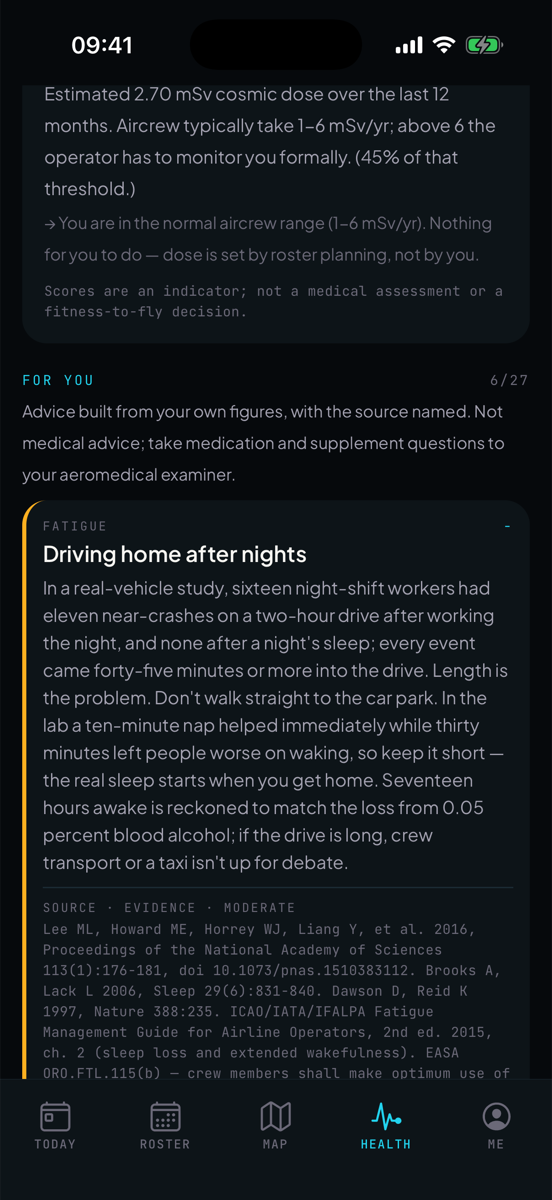
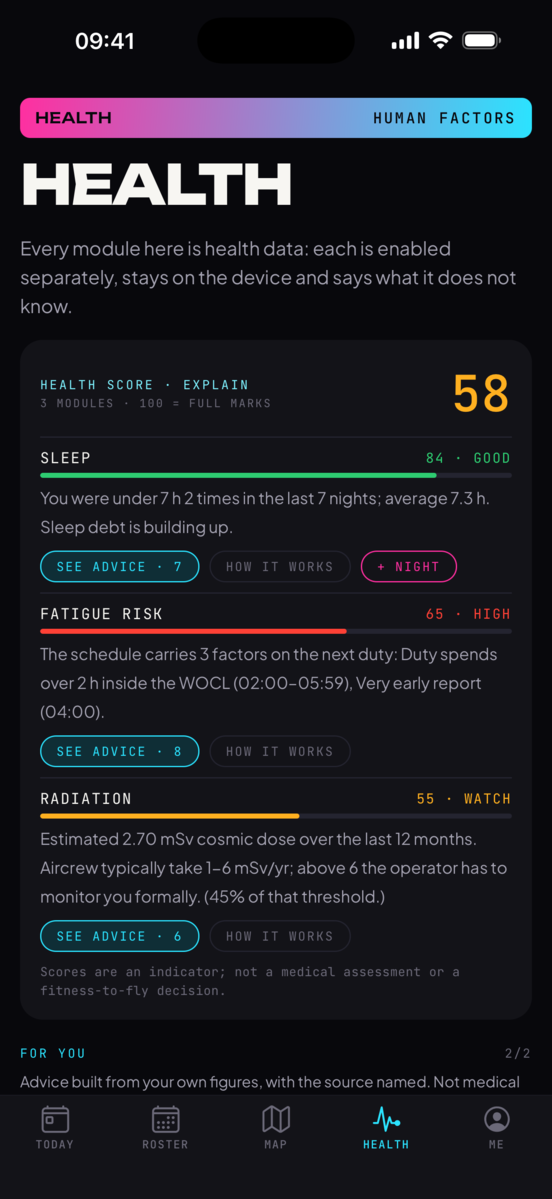
Crewops sayfasi: magaza baglantisi canli, yeni ikon ve ekranlar, 1.1 ozellikleri isaretli
- 'Coming soon' yerine App Store baglantisi (1.0 yayinda).
- Yeni Liquid Glass ikon ve dort ekran goruntusu yeniden cekildi.
- Portal kartinda 67 dogrulanmis adres ve NetLine degisiklik onayi;
  limit kartinda 900 saat ve standby'in uc turu; kocluk 76 kart
  (27/22/15/12).
- iCloud esitleme ve takvim/hatirlatici kartlari eklendi, ikisi de
  'IN 1.1' rozetiyle: magazadaki surum hala 1.0 ve iPhone-only.
- Destek sayfasi: standby, takvim ve hatirlaticilar, iCloud esitleme ve
  yeni cihaza gecis bolumleri.
- Fiyatlar: 6,99 $/ay, 49,99 $/yil, 7 gun deneme.

Changed region(s): [[0.0308, 0.3086, 0.9547, 0.9566], [0.0308, 0.0, 0.9855, 0.2777]]

diff --git a/crewops.html b/crewops.html
@@ -4,16 +4,16 @@
     <meta charset="utf-8" />
     <meta name="viewport" content="width=device-width, initial-scale=1" />
     <title>Crewops — Roster, duty limits &amp; fatigue for airline crew · Hawk &amp; Mason Studios</title>
-    <meta name="description" content="Crewops reads the roster your airline already sends you and shows what it leaves you: FDP ceilings, legal rest, a fatigue indicator, a logbook with CSV export and a document wallet. Everything stays on your phone." />
+    <meta name="description" content="Crewops reads the roster your airline already sends you and shows what it leaves you: FDP ceilings, legal rest, a fatigue indicator, a logbook with CSV export and a document wallet. Everything is computed on the device; iPad support and optional iCloud sync arrive in the 1.1 update." />
     <meta property="og:title" content="Crewops — Roster, duty limits &amp; fatigue for airline crew" />
-    <meta property="og:description" content="Import your roster, see the margin the month leaves you, and keep your own logbook. For line pilots and cabin crew. Nothing leaves the device." />
+    <meta property="og:description" content="Import your roster, see the margin the month leaves you, and keep your own logbook. For line pilots and cabin crew. Nothing reaches us." />
     <meta property="og:type" content="website" />
     <meta property="og:url" content="https://hawkmason.com/crewops.html" />
-    <meta property="og:image" content="assets/crewops/bugun.png" />
+    <meta property="og:image" content="assets/crewops/bugun.png?v=2" />
     <meta name="twitter:card" content="summary_large_image" />
-    <meta name="twitter:image" content="assets/crewops/bugun.png" />
-    <link rel="icon" href="assets/crewops/icon.png" type="image/png" sizes="64x64" />
-    <link rel="apple-touch-icon" href="assets/crewops/icon.png" />
+    <meta name="twitter:image" content="assets/crewops/bugun.png?v=2" />
+    <link rel="icon" href="assets/crewops/icon.png?v=2" type="image/png" sizes="64x64" />
+    <link rel="apple-touch-icon" href="assets/crewops/icon.png?v=2" />
     <link rel="stylesheet" href="styles.css?v=22" />
     <script src="app.js?v=22" defer></script>
   </head>
@@ -46,18 +46,22 @@
             line.
           </p>
           <div class="store-row" id="download">
-            <span class="store-pill store-pill--ios store-pill--soon">
-              <span class="store-kicker">Coming soon to the</span><span class="store-name">App Store</span>
-            </span>
+            <a class="store-pill store-pill--ios" href="https://apps.apple.com/app/id6811512361" target="_blank" rel="noopener">
+              <span class="store-kicker">Download on the</span><span class="store-name">App Store</span>
+            </a>
           </div>
+          <p class="g-hero-meta" style="color: var(--w-muted); margin-bottom: 4px;">
+            Version 1.1 — iPad layout, iCloud sync between your own devices, calendar
+            mirroring and report reminders — is with Apple for review.
+          </p>
           <p class="g-hero-meta" style="color: var(--w-muted);">
-            iOS · 7 languages · 7-day free trial on Pro ·
+            iPhone · 7 languages · free, with a 7-day trial on Pro ·
             <a href="mailto:hello@hawkmason.com" style="color: var(--w-azure);">hello@hawkmason.com</a>
           </p>
         </div>
         <div class="w-hero-art" aria-hidden="true">
-          <div class="w-phone w-phone-back"><img src="assets/crewops/ritim.png" alt="" /></div>
-          <div class="w-phone w-phone-front"><img src="assets/crewops/bugun.png" alt="" /></div>
+          <div class="w-phone w-phone-back"><img src="assets/crewops/ritim.png?v=2" alt="" /></div>
+          <div class="w-phone w-phone-front"><img src="assets/crewops/bugun.png?v=2" alt="" /></div>
         </div>
       </section>
 
@@ -71,12 +75,12 @@
           <article class="w-card">
             <span class="w-ic">📥</span>
             <h3>Three ways in</h3>
-            <p>Drop in the .ics file your airline publishes, add the roster PDF, or open your airline's crew portal. The PDF is read on the device, straight from its text layer, with OCR as the fallback. 273 operators are preconfigured — they set your portal family and rule set. On NetLine/CrewLink the app signs in and pulls the roster itself; on the other systems it opens your airline's own portal and catches the file you export.</p>
+            <p>Drop in the .ics file your airline publishes, add the roster PDF, or open your airline's crew portal. The PDF is read on the device, straight from its text layer, with OCR as the fallback. 273 operators are preconfigured with their crew system and rule set, and 67 portal addresses are verified. On NetLine/CrewLink the app signs in, pulls the roster itself, and lets you acknowledge a change notice without leaving the app; on the other systems it opens your airline's own portal and catches the file you export.</p>
           </article>
           <article class="w-card">
             <span class="w-ic">⏱</span>
             <h3>Limits that match your rule set</h3>
-            <p>EASA, UK CAA, FAA Part 117 and Turkish SHGM. FDP ceilings, minimum rest, cumulative duty, and the earliest they can call you again — with the margin the roster leaves, not just the numbers on it.</p>
+            <p>EASA, UK CAA, FAA Part 117 and Turkish SHGM. FDP ceilings, minimum rest, cumulative duty, the 900-hour year, and the earliest they can call you again — with the margin the roster leaves, not just the numbers on it. Standby is airport, home or reserve, and each counts the way the rules say.</p>
           </article>
           <article class="w-card">
             <span class="w-ic">🌙</span>
@@ -91,33 +95,43 @@
           <article class="w-card">
             <span class="w-ic">🩺</span>
             <h3>Coaching, with sources</h3>
-            <p>Sleep, body clock, light and caffeine windows, cosmic radiation against the Euratom reference levels. Seventy-eight cards that fire off your own numbers, each naming the study or regulation behind it.</p>
+            <p>Sleep, body clock, light and caffeine windows, cosmic radiation against the Euratom reference levels, month by month. Seventy-six cards that fire off your own numbers — 27 on fatigue, 22 on sleep, 15 on the body clock, 12 on radiation — each naming the study or regulation behind it.</p>
           </article>
           <article class="w-card">
             <span class="w-ic">🗂</span>
             <h3>Documents that warn you early</h3>
             <p>Licence, medical, passport and visa expiry dates, with reminders before they bite, and a note of which destinations need which visa.</p>
           </article>
+          <article class="w-card">
+            <span class="w-ic">☁</span>
+            <h3>Your devices, in step<span style="display:inline-block;margin-left:8px;padding:2px 8px;border:1px solid var(--w-line);border-radius:999px;font-size:0.68rem;letter-spacing:0.06em;color:var(--w-azure);vertical-align:middle;">IN 1.1</span></h3>
+            <p>Optional iCloud sync keeps your roster, logbook, documents and settings the same on every device you own, through your own iCloud account. Off by default, encrypted on the device with a key that never leaves your devices. Sleep, fatigue and IMSAFE entries never go to iCloud.</p>
+          </article>
+          <article class="w-card">
+            <span class="w-ic">📅</span>
+            <h3>In your calendar, on time<span style="display:inline-block;margin-left:8px;padding:2px 8px;border:1px solid var(--w-line);border-radius:999px;font-size:0.68rem;letter-spacing:0.06em;color:var(--w-azure);vertical-align:middle;">IN 1.1</span></h3>
+            <p>Mirror the roster into a calendar of your choosing on the device, and get a reminder before each report time. Both are local: no server, no push, nothing leaves the phone to make them work.</p>
+          </article>
         </div>
       </section>
 
       <!-- PRIVACY LINE -->
       <section class="w-quote">
-        <p>Your roster, your hours and your health are on your phone, not on our server. We do not have an account system, because we do not want your data.</p>
-        <span>Crewops computes everything on the device. The only things it fetches are public weather and space-weather feeds, and your own airline's portal when you ask it to.</span>
+        <p>Your roster, your hours and your health are on your device, not on our server. We do not have an account system, because we do not want your data.</p>
+        <span>Crewops computes everything on the device. The only things it fetches are public weather and space-weather feeds, and your own airline's portal when you ask it to. If you switch iCloud sync on, an encrypted copy goes to your own iCloud account and nowhere else.</span>
       </section>
 
       <!-- SPECS -->
       <section class="w-strip">
         <div class="w-strip-inner">
           <div style="text-align: center;">
-            <img src="assets/crewops/icon.png" alt="Crewops app icon" style="width: 116px; height: 116px; border-radius: 26px; box-shadow: 0 16px 36px rgba(63, 182, 245, 0.28); display: block; margin: 0 auto 10px;" />
+            <img src="assets/crewops/icon.png?v=2" alt="Crewops app icon" style="width: 116px; height: 116px; border-radius: 26px; box-shadow: 0 16px 36px rgba(63, 182, 245, 0.28); display: block; margin: 0 auto 10px;" />
             <span style="font-size: 0.85rem; color: var(--w-azure); font-weight: 700; letter-spacing: 0.05em;">CREWOPS</span>
           </div>
           <div>
             <h3 style="color: #fff; font-size: 1.06rem; margin-bottom: 12px;">App information</h3>
             <ul class="w-spec">
-              <li><b>Platform:</b> iOS (iPhone)</li>
+              <li><b>Platform:</b> iPhone · iPad in the 1.1 update</li>
               <li><b>Category:</b> Business · Health &amp; Fitness</li>
               <li><b>Age rating:</b> 12+</li>
               <li><b>Developer:</b> Hawk &amp; Mason Studios</li>
@@ -128,8 +142,8 @@
             <ul class="w-spec">
               <li><b>Requires:</b> iOS 16.4 or later</li>
               <li><b>Languages:</b> TR, EN, DE, ES, FR, IT, PT-BR</li>
-              <li><b>Privacy:</b> No account, no server, nothing uploaded</li>
-              <li><b>Pricing:</b> Free to use, Crewops Pro subscription optional</li>
+              <li><b>Privacy:</b> No account, no server; iCloud sync only if you turn it on</li>
+              <li><b>Pricing:</b> Free to use · Crewops Pro $6.99/month or $49.99/year (USD), 7-day free trial</li>
             </ul>
           </div>
         </div>
@@ -143,19 +157,19 @@
         </div>
         <div class="w-grid" style="grid-template-columns: repeat(auto-fit, minmax(220px, 1fr));">
           <figure style="margin: 0;">
-            <img src="assets/crewops/bugun.png" alt="The Today screen: next duty, report time, duty limits and the fatigue meter" style="width: 100%; border-radius: 22px; border: 1px solid var(--w-line);" />
+            <img src="assets/crewops/bugun.png?v=2" alt="The Today screen: next duty, report time, duty limits and the fatigue meter" style="width: 100%; border-radius: 22px; border: 1px solid var(--w-line);" />
             <figcaption style="color: var(--w-muted); font-size: 0.9rem; margin-top: 10px;">Today — the next duty, the margin, the fatigue meter.</figcaption>
           </figure>
           <figure style="margin: 0;">
-            <img src="assets/crewops/ritim.png" alt="The Rhythm screen: a month of duties as day lanes" style="width: 100%; border-radius: 22px; border: 1px solid var(--w-line);" />
+            <img src="assets/crewops/ritim.png?v=2" alt="The Rhythm screen: a month of duties as day lanes" style="width: 100%; border-radius: 22px; border: 1px solid var(--w-line);" />
             <figcaption style="color: var(--w-muted); font-size: 0.9rem; margin-top: 10px;">Rhythm — a month, day by day, rest and WOCL drawn in.</figcaption>
           </figure>
           <figure style="margin: 0;">
-            <img src="assets/crewops/saglik.png" alt="The Health screen: sleep, fatigue, radiation and body clock scores with coaching cards" style="width: 100%; border-radius: 22px; border: 1px solid var(--w-line);" />
-            <figcaption style="color: var(--w-muted); font-size: 0.9rem; margin-top: 10px;">Health — sourced coaching from your own numbers.</figcaption>
+            <img src="assets/crewops/saglik.png?v=2" alt="The Health screen: sleep, fatigue, radiation and body clock scores with coaching cards" style="width: 100%; border-radius: 22px; border: 1px solid var(--w-line);" />
+            <figcaption style="color: var(--w-muted); font-size: 0.9rem; margin-top: 10px;">Health — sleep, fatigue and dose scores, then sourced coaching from your own numbers.</figcaption>
           </figure>
           <figure style="margin: 0;">
-            <img src="assets/crewops/roster.png" alt="The Roster screen: imported duties with report, release, FDP and sectors" style="width: 100%; border-radius: 22px; border: 1px solid var(--w-line);" />
+            <img src="assets/crewops/roster.png?v=2" alt="The Roster screen: imported duties with report, release, FDP and sectors" style="width: 100%; border-radius: 22px; border: 1px solid var(--w-line);" />
             <figcaption style="color: var(--w-muted); font-size: 0.9rem; margin-top: 10px;">Roster — every duty as imported, nothing rewritten.</figcaption>
           </figure>
         </div>

diff --git a/crewops-support.html b/crewops-support.html
@@ -4,7 +4,7 @@
     <meta charset="utf-8" />
     <meta name="viewport" content="width=device-width, initial-scale=1" />
     <title>Crewops — Support · Hawk &amp; Mason Studios</title>
-    <meta name="description" content="Help with Crewops: roster import, duty limits, subscription and moving to a new phone." />
+    <meta name="description" content="Help with Crewops: roster import, duty limits, standby, calendar and reminders, iCloud sync, subscription and moving to a new device." />
     <meta name="robots" content="index,follow" />
     <link rel="icon" href="assets/favicon-64.png" type="image/png" sizes="64x64" />
     <link rel="icon" href="assets/favicon-32.png" type="image/png" sizes="32x32" />
@@ -45,7 +45,7 @@
       <h2>Help us help you faster</h2>
       <p>When you write about a problem, please include:</p>
       <ul>
-        <li>your device and iOS version (for example iPhone 15, iOS 18);</li>
+        <li>your device and iOS version (for example iPhone 15, iOS 18, or an iPad);</li>
         <li>the rule set you selected (EASA, UK CAA, FAA 117, SHGM);</li>
         <li>how the roster was imported — crew portal, .ics file or PDF;</li>
         <li>the duty in question, with its date and report time;</li>
@@ -54,7 +54,7 @@
       <p>
         No roster to hand? Open the
         <a href="crewops-sample-roster.ics">sample roster</a> and import it as a
-        calendar file — fourteen duties across seven weeks, a fortnight of flown sectors and five weeks ahead, enough to see every screen.
+        calendar file — fourteen duties across seven weeks, a dozen days of flown sectors and five weeks ahead, enough to see every screen.
       </p>
       <p>
         Please do not email us your crew portal password, and please remove or
@@ -64,7 +64,7 @@
       <h2>Importing a roster</h2>
       <p>There are three ways in, and they all end up in the same place:</p>
       <ul>
-        <li><strong>Crew portal</strong> — on NetLine/CrewLink the app signs in with the credentials your airline issued you and pulls the roster itself; on other systems it opens your airline's own portal and reads the file you export. The app asks your airline's system directly; we never see the password. Some airlines publish rosters only for a fixed window, and the app will not request dates beyond the period your airline has published.</li>
+        <li><strong>Crew portal</strong> — on NetLine/CrewLink the app signs in with the credentials your airline issued you and pulls the roster itself; on other systems it opens your airline's own portal and reads the file you export. The app asks your airline's system directly; we never see the password. Some airlines publish rosters only for a fixed window, and the app will not request dates beyond the period your airline has published. When NetLine holds the roster behind a change notice, the app shows you the notice and you acknowledge it inside Crewops — the same acknowledgement you would give on the portal.</li>
         <li><strong>Calendar file (.ics)</strong> — save the .ics your airline or crewing system publishes, then pick it in Crewops. It is a one-off import of that file, not a live subscription: re-import when a new one is published.</li>
         <li><strong>PDF</strong> — save the roster PDF to Files, then pick it in Crewops. It is read on your device, from the text inside the PDF where there is one, with text recognition as the fallback for scanned pages.</li>
       </ul>
@@ -72,6 +72,26 @@
         After an import, review the duties before trusting the numbers. Anything
         the parser was unsure about is flagged, and nothing reaches a calculation
         until it is confirmed.
+      </p>
+
+      <h2>Standby: airport, home or reserve</h2>
+      <p>
+        The roster says "standby" and nothing more, but the three kinds count
+        differently against your cumulative limits, so Crewops asks you which one
+        it was. Airport standby counts in full, standby elsewhere counts a
+        quarter, and reserve counts nothing. Your answer is kept across roster
+        updates. Open the duty and change it if you got it wrong.
+      </p>
+
+      <h2>Calendar and reminders</h2>
+      <p class="legal-updated">In the 1.1 update.</p>
+      <p>
+        <strong>Me → Write to calendar</strong> mirrors your duties into a
+        calendar on the device; it asks for calendar access the first time you
+        switch it on, writes only the events it created, and removes them when
+        you switch it off. <strong>Me → Report reminder</strong> schedules a local
+        notification before each report time. There is no push server: both work
+        entirely on the device, so nothing about your roster leaves it.
       </p>
 
       <h2>Why a limit might look wrong</h2>
@@ -106,16 +126,31 @@
         records behind a subscription.
       </p>
 
-      <h2>Moving to a new phone</h2>
+      <h2>iCloud sync, and moving to a new device</h2>
+      <p class="legal-updated">iCloud sync, calendar mirroring and report reminders arrive in the 1.1 update.</p>
       <p>
-        Crewops keeps everything on the device and nothing on a server, which is
-        the point of it — and it means a lost phone is a real risk. Restoring a
-        new iPhone from an Apple backup brings Crewops and its data with it. If
-        you set the new phone up as new, the data does not come back.
+        Crewops keeps everything on the device and nothing on a server of ours.
+        To keep two devices in step, or to bring your data to a new phone,
+        switch on <strong>Me → iCloud sync</strong> (Turkish build: Ben →
+        iCloud eşitleme). It is off until you turn it on. Your roster, logbook,
+        document records and settings are then copied through your own iCloud
+        account, encrypted on the device with a key kept in your iCloud Keychain;
+        we cannot read them. It needs iCloud Drive and iCloud Keychain to be on
+        for that Apple Account.
       </p>
       <p>
-        Before changing phones, open <strong>Me → Data &amp; privacy</strong>
-        (Turkish build: Ben → Veri ve gizlilik) and export a copy, and export the logbook as CSV.
+        Your sleep entries, fatigue ratings and I'M SAFE answers never go to
+        iCloud — Apple does not allow personal health information there. To move
+        them, use <strong>Export health data</strong> on the iCloud screen and
+        import the file on the other device; importing the same file twice does
+        no harm. Document scans and your portal password stay on the device they
+        were entered on.
+      </p>
+      <p>
+        Without iCloud sync, restoring a new iPhone from an Apple backup brings
+        Crewops and its data with it; setting the phone up as new does not.
+        Either way, <strong>Me → Data &amp; privacy</strong> (Turkish build: Ben →
+        Veri ve gizlilik) exports a full copy, and the logbook exports as CSV.
         Keep both somewhere you control.
       </p>
 
@@ -124,8 +159,11 @@
         <strong>Me → Data &amp; privacy → Delete everything</strong> (Turkish build:
         Ben → Veri ve gizlilik → Her şeyi sil) wipes everything the
         app holds: roster, logbook, documents and attachments, health entries,
-        saved portal credentials and reminders. Deleting the app from your iPhone
-        removes its storage too. Neither cancels a subscription.
+        saved portal credentials and reminders. Deleting the app from your device
+        removes its storage too. Neither cancels a subscription. An iCloud copy
+        belongs to your iCloud account, not to the app: turn iCloud sync off in
+        Crewops to delete that device's copy, or remove the app's data under
+        Settings → your name → iCloud → Manage Account Storage.
       </p>
 
       <h2>Reporting something serious</h2>

diff --git a/index.html b/index.html
@@ -49,7 +49,7 @@
             puzzle, to <strong>Ittako</strong>, a toy climbing a bedroom at
             night, to <strong>EliteLoop</strong>, a private social discovery app,
             to <strong>AeroPulse</strong>, a live 3D aviation flight radar, and
-            <strong>Crewops</strong>, a roster and duty-limits app for airline crew.
+            <strong>Crewops</strong>, a roster, duty-limits and fatigue app for airline crew.
           </p>
           <div class="hero-actions">
             <a class="btn btn-primary" href="#games">See our work <span aria-hidden="true">→</span></a>
@@ -137,7 +137,7 @@
           <a class="game-card game-card--crew" href="crewops.html"
              data-portal data-veil="#070c15" data-enter="crewops">
             <div class="card-media card-media--aero">
-              <img class="aero-shot" src="assets/crewops/bugun.png" alt="Crewops today screen with duty limits and fatigue meter" />
+              <img class="aero-shot" src="assets/crewops/bugun.png?v=2" alt="Crewops today screen with duty limits and fatigue meter" />
             </div>
             <div class="card-body">
               <span class="pill pill--app" style="background: rgba(63, 182, 245, 0.15); color: #3fb6f5;">App · Coming soon</span>
